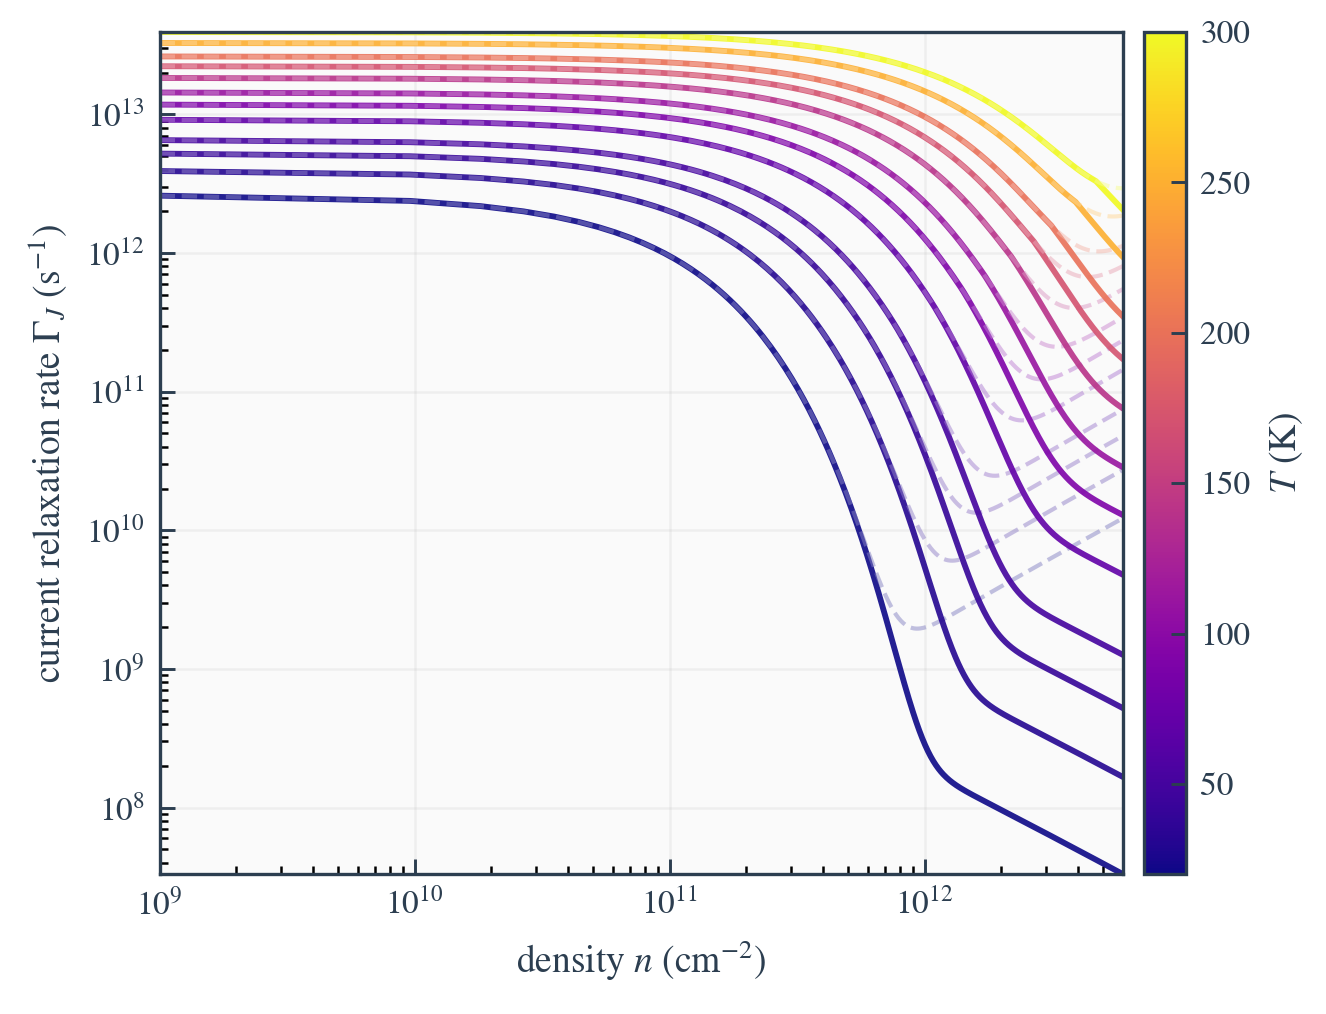
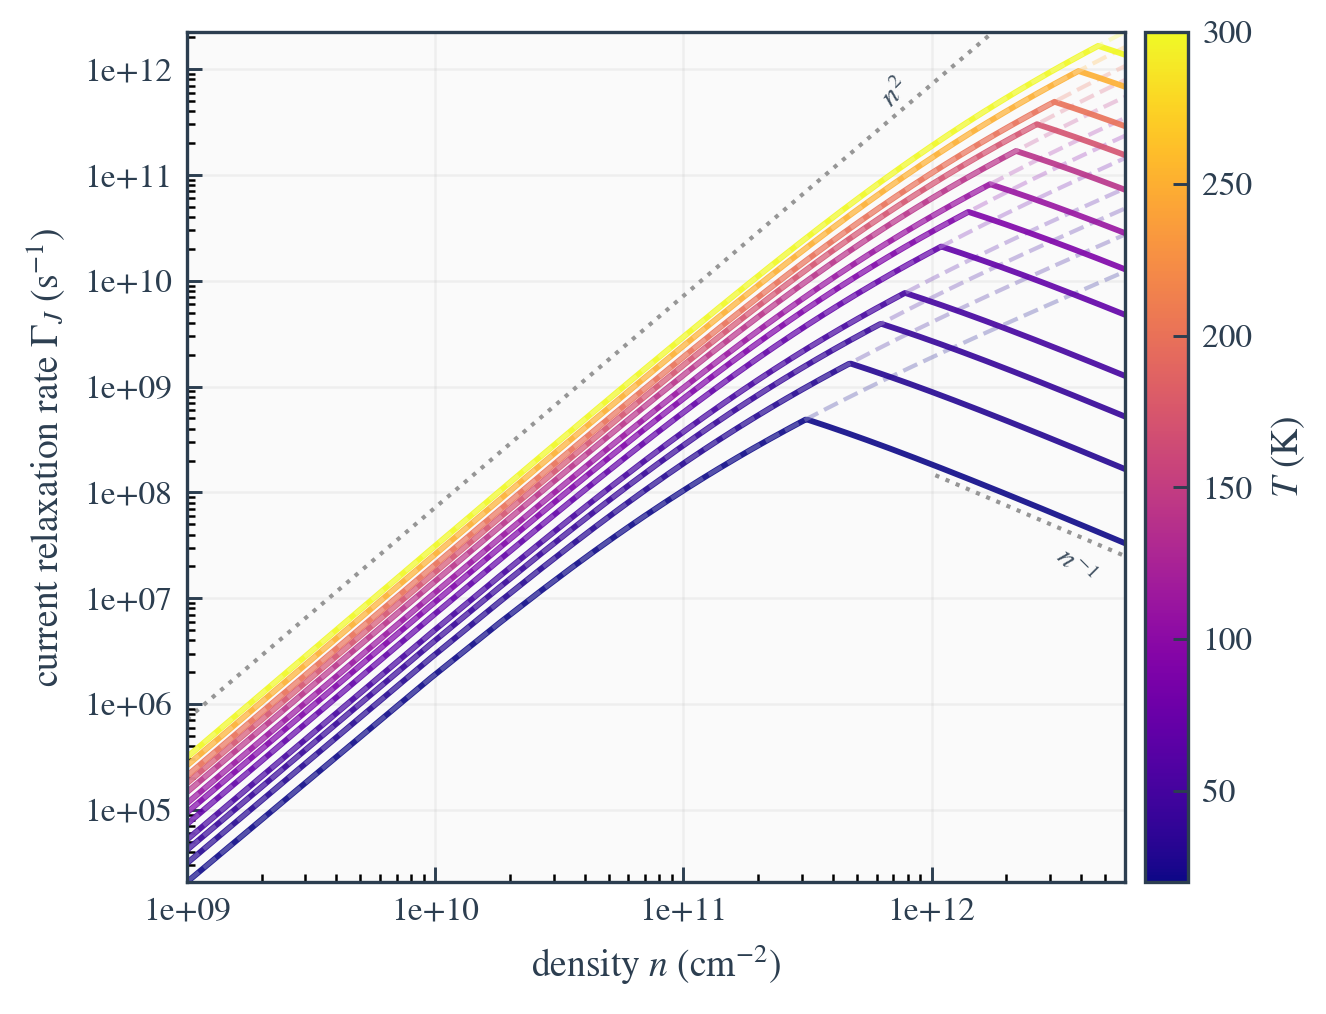
n^2 and n^{-1} assymptotics

diff --git a/Current relaxation rate vs density/Gamma(n).py b/Current relaxation rate vs density/Gamma(n).py
@@ -38,11 +38,11 @@ mpl.rcParams.update({
 })
 
 mpl.rcParams.update({
-    "text.usetex": False,          # use MathText (portable)
-    "font.family": "STIXGeneral",  # match math fonts
+    "text.usetex": False,
+    "font.family": "STIXGeneral",
     "font.size": 12,
     "mathtext.fontset": "stix",
-    "axes.unicode_minus": False,   # proper minus sign
+    "axes.unicode_minus": False,
 })
 
 
@@ -57,7 +57,7 @@ gamma1 = gamma1_eV * eV
 
 mstar = gamma1 / (2.0 * vF**2)
 
-a = 1.0
+a = 1
 C = 1.0*10
 
 n_min = 1e9
@@ -93,7 +93,7 @@ def Gamma_inter(T, mu):
 
 temperatures = np.array([20, 30, 40, 50, 70, 90, 110, 140, 170, 200, 250, 300])
 
-INCLUDE_INTERBAND = True
+INCLUDE_INTERBAND = False
 USE_COLORBAR = True
 
 cmap = plt.get_cmap("plasma")
@@ -147,12 +147,32 @@ for T in temperatures:
 ax.set_xlim(n_min, n_max)
 ax.set_ylim(y_min, y_max)
 
+n_ref = np.sqrt(n_min * n_max)
+y_ref = np.sqrt(y_min * y_max)
+
+n_slope1 = np.logspace(np.log10(n_min), np.log10(n_max), 100)
+y_slope1 = y_ref * (n_slope1 / n_ref)**2*20
+ax.loglog(n_slope1, y_slope1, 'k:', alpha=0.4, linewidth=1.0, zorder=0)
+n_text1 = n_max * 0.1
+y_text1 = y_ref * (n_text1 / n_ref)**2*30
+ax.text(n_text1, y_text1, r'$n^2$', rotation=45, ha='left', va='bottom', 
+        fontsize=7, alpha=0.9, color='#2C3E50')
+
+n_slope_neg1_full = np.logspace(np.log10(n_min), np.log10(n_max), 100)
+mask_neg1 = n_slope_neg1_full > 1e12
+n_slope_neg1 = n_slope_neg1_full[mask_neg1]
+y_slope_neg1 = y_ref * (n_slope_neg1 / n_ref)**(-1)*9
+ax.loglog(n_slope_neg1, y_slope_neg1, 'k:', alpha=0.4, linewidth=1.0, zorder=0)
+n_text_neg1 = max(5e11 * 1.1, n_max * 0.5)
+y_text_neg1 = y_ref * (n_text_neg1 / n_ref)**(-1)*6
+ax.text(n_text_neg1, y_text_neg1, r'$n^{-1}$', rotation=-45, ha='left', va='top', 
+        fontsize=7, alpha=0.9, color='#2C3E50')
+
 ax.set_xlabel(r"density $n$ (cm$^{-2}$)", color="#2C3E50")
 ax.set_ylabel(r"current relaxation rate $\Gamma_J$ (s$^{-1}$)", color="#2C3E50")
 
 ax.minorticks_on()
 
-# Set log scale formatters for both axes
 ax.xaxis.set_major_formatter(LogFormatter())
 ax.yaxis.set_major_formatter(LogFormatter())
 ax.xaxis.set_minor_formatter(LogFormatter(minor_thresholds=(2, 0.4)))
